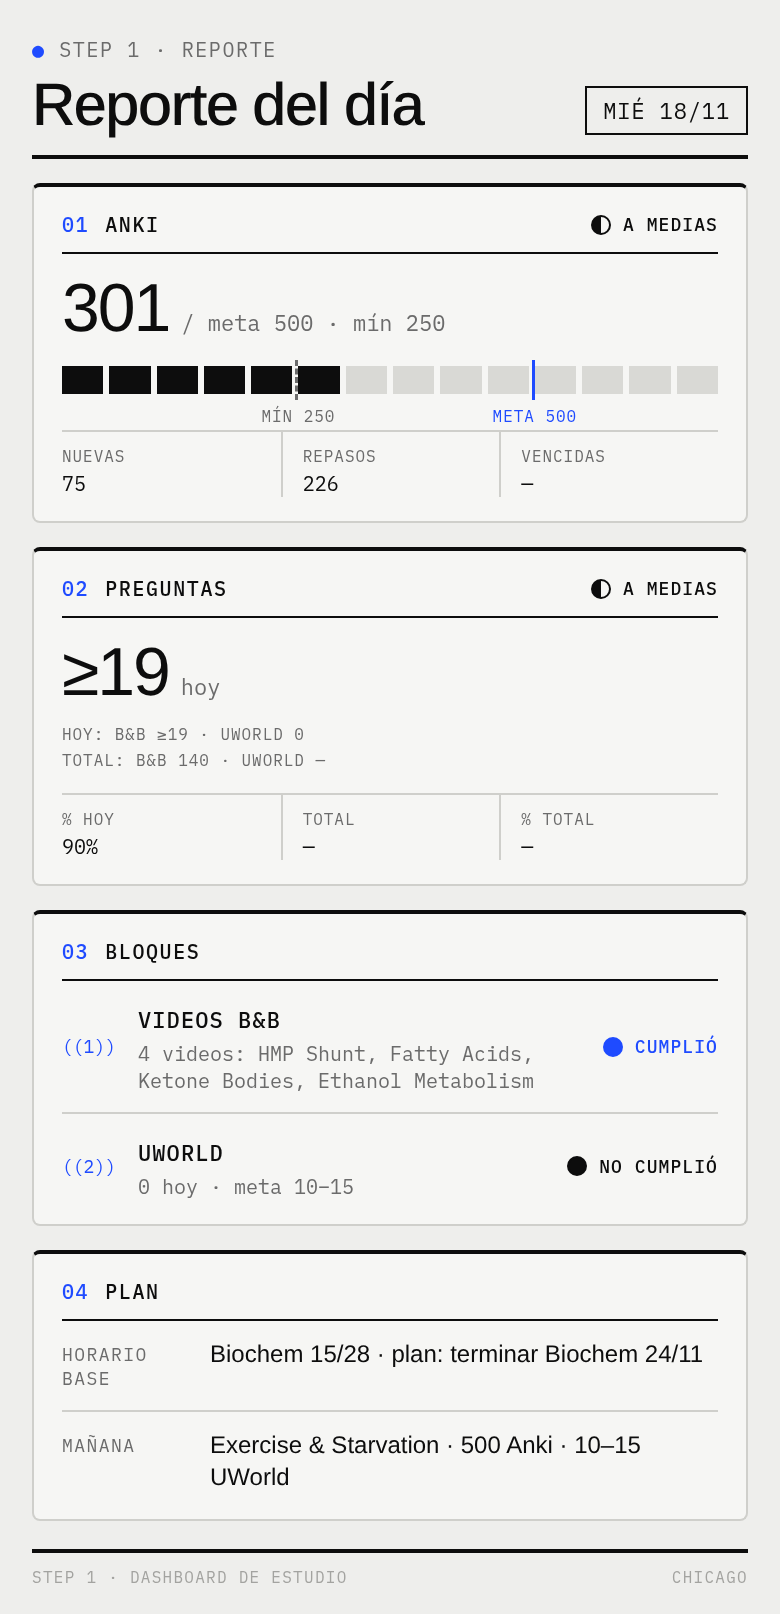
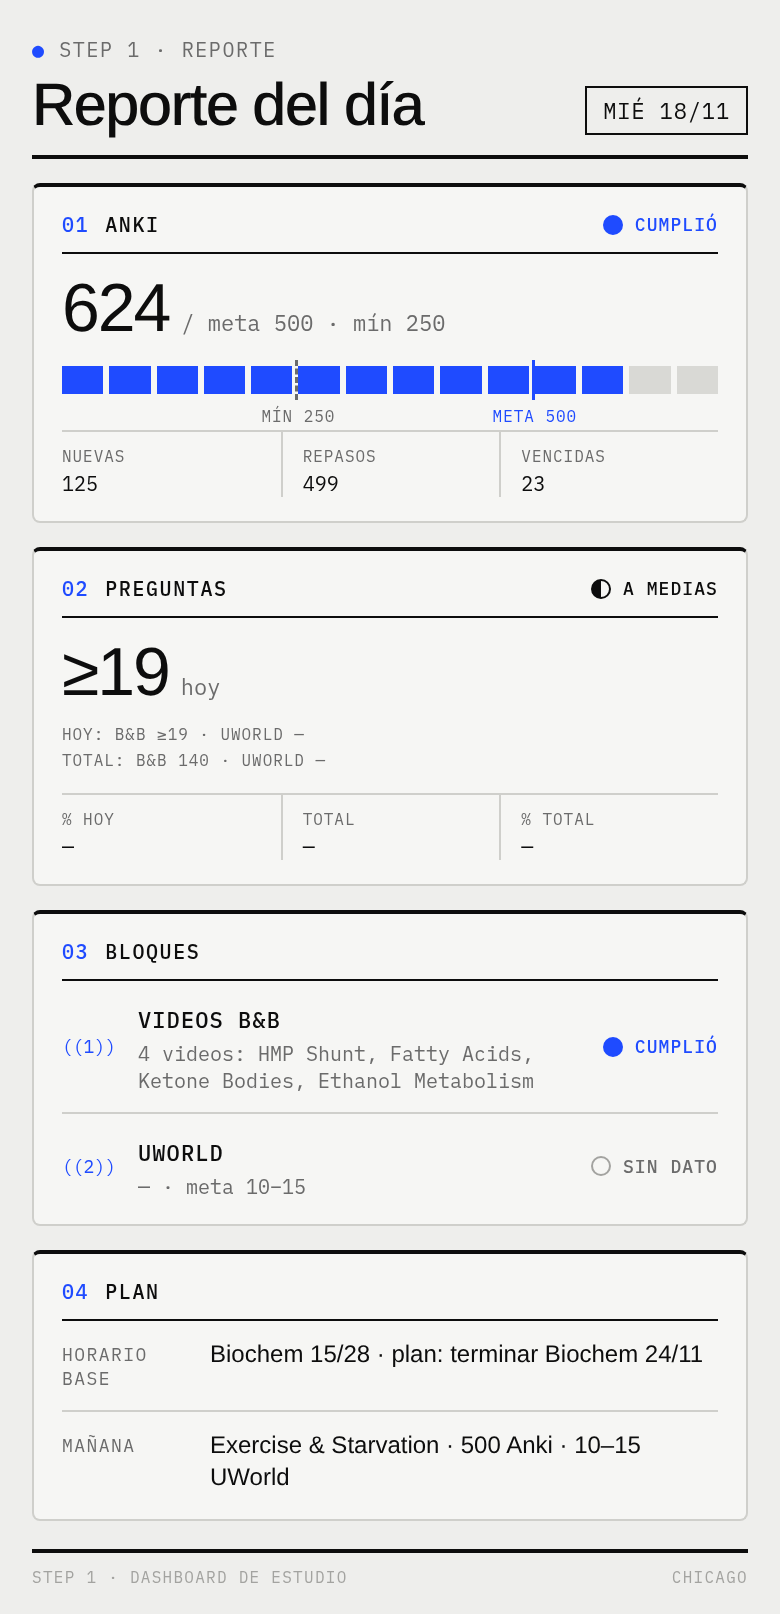
Reporte 2026-11-18 23:06: Anki 624 (meta cumplida)

diff --git a/index.html b/index.html
@@ -338,7 +338,7 @@ details summary .lbl{margin-left:auto}
   <div><div class="brand"><span><i>●</i> step&nbsp;1</span><span>usmle</span><span>rev. 2026</span></div><h1>Inicio</h1></div>
   <div class="top-meta">
     <button type="button" id="refresh" aria-label="Refresh">↻ REFRESH</button>
-    <span id="upd">Actualizado 18/11 22:30</span>
+    <span id="upd">Actualizado 18/11 23:06</span>
   </div>
 </header>
 
@@ -349,13 +349,13 @@ details summary .lbl{margin-left:auto}
 <!-- ANKI HOY: anillo (data-done / data-goal) -->
 <section class="card ringwrap" id="s-anki">
   <h2 style="align-self:stretch"><span><em class="no">00</em>Anki hoy</span> <i>●</i></h2>
-  <div id="ring" data-done="301" data-goal="500"></div>
+  <div id="ring" data-done="624" data-goal="500"></div>
   <span class="badge" id="ringbadge"></span>
   <div class="kvs">
-    <div class="kv"><span>Distintas</span><b>176</b></div>
-    <div class="kv"><span>Nuevas</span><b>75</b></div>
-    <div class="kv"><span>Repasos</span><b>101</b></div>
-    <div class="kv"><span>Vencidas</span><b>177</b></div>
+    <div class="kv"><span>Distintas</span><b>380</b></div>
+    <div class="kv"><span>Nuevas</span><b>125</b></div>
+    <div class="kv"><span>Repasos</span><b>255</b></div>
+    <div class="kv"><span>Vencidas</span><b>23</b></div>
     <div class="kv" id="anki-again"></div>
   </div>
 </section>
@@ -576,7 +576,7 @@ function draw(){document.getElementById("seg").innerHTML=F.map(x=>`<button class
 /* fechas límite (cuenta regresiva en días, calculada) */
 const D={examen:"2027-04-30",uworld:"2027-04-29"};
 
-const H={"2026-10-31":44,"2026-11-02":73,"2026-11-03":87,"2026-11-04":4,"2026-11-05":229,"2026-11-07":226,"2026-11-10":205,"2026-11-11":310,"2026-11-12":346,"2026-11-13":303,"2026-11-14":552,"2026-11-15":239,"2026-11-16":430,"2026-11-17":635,"2026-11-18":301};
+const H={"2026-10-31":44,"2026-11-02":73,"2026-11-03":87,"2026-11-04":4,"2026-11-05":229,"2026-11-07":226,"2026-11-10":205,"2026-11-11":310,"2026-11-12":346,"2026-11-13":303,"2026-11-14":552,"2026-11-15":239,"2026-11-16":430,"2026-11-17":635,"2026-11-18":624};
 const key=d=>d.getFullYear()+"-"+String(d.getMonth()+1).padStart(2,"0")+"-"+String(d.getDate()).padStart(2,"0");
 
 /* histograma de cuadritos: 1 cuadrito = 50 respuestas; líneas META 500 y MÍNIMO 250 */
@@ -614,7 +614,7 @@ document.getElementById("cd-ex").textContent=D.examen?dd(D.examen):"—";documen
 document.getElementById("hitos").innerHTML=plan.filter(r=>r[2]!==1).slice(0,4).map(r=>`<div class="hito"><span class="f">${r[0]}</span><span>${r[1]}</span></div>`).join("")||"—";
 
 /* 00 Anki hoy · Again (solo valores ya observados; null = "—") */
-const ANKI_HOY={reviews:301, again:30, again_cards:26, again_pct:10};
+const ANKI_HOY={reviews:624, again:58, again_cards:49, again_pct:9};
 (function(){
   const el=document.getElementById("anki-again"); if(!el) return;
   const a=ANKI_HOY, V=x=>(x===null||x===undefined||x==="")?"—":x;
@@ -686,14 +686,14 @@ ${b.nota?`<p class="note">${b.nota}</p>`:""}`})();
 const REPORTS={
   "2026-11-18":{
       fecha:"mié 18/11",
-      anki:{hechas:301, meta:500, min:250, nuevas:75, repasos:226, vencidas:null, estado:"medio"},
-      preg:{hoy:null, pct_hoy:null, total:null, pct_total:null,
+      anki:{hechas:624, meta:500, min:250, nuevas:125, repasos:499, vencidas:23, estado:"ok"},
+      preg:{hoy:19, hoy_min:true, pct_hoy:null, total:null, pct_total:null,
             bb:{hoy:19, hoy_min:true, pct_hoy:89.5, total:140, pct_total:84.4},
-            uw:{hoy:0, pct_hoy:null, total:null, pct_total:null},
+            uw:{hoy:null, pct_hoy:null, total:null, pct_total:null},
             hist:null, estado:"medio"},
       bloques:[
         {n:"Videos B&B", valor:"4 videos: HMP Shunt, Fatty Acids, Ketone Bodies, Ethanol Metabolism", detalle:null, estado:"ok"},
-        {n:"UWorld",     valor:"0 hoy", detalle:"meta 10–15", estado:"no"}
+        {n:"UWorld",     valor:null, detalle:"meta 10–15", estado:"sd"}
       ],
       base:"Biochem 15/28 · plan: terminar Biochem 24/11",
       manana:"Exercise & Starvation · 500 Anki · 10–15 UWorld"
